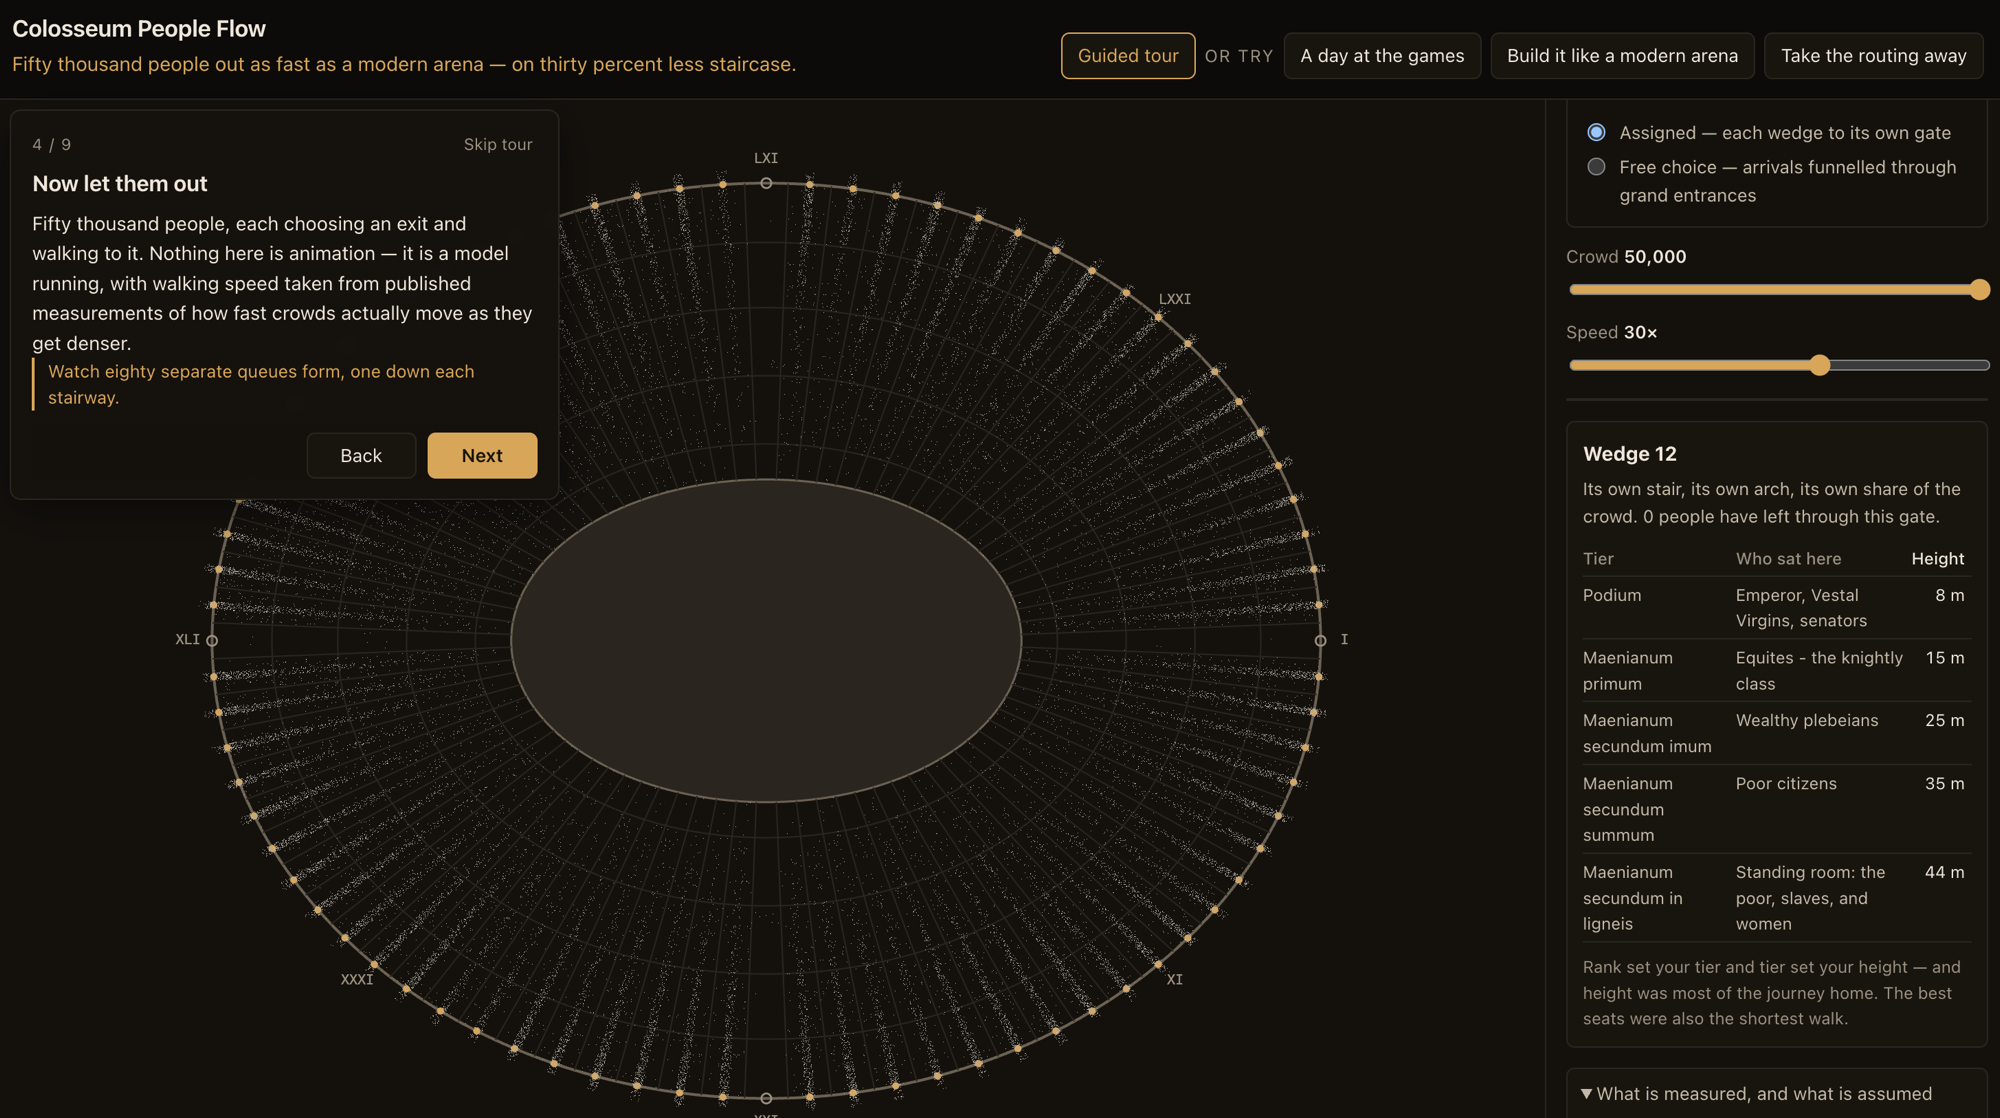
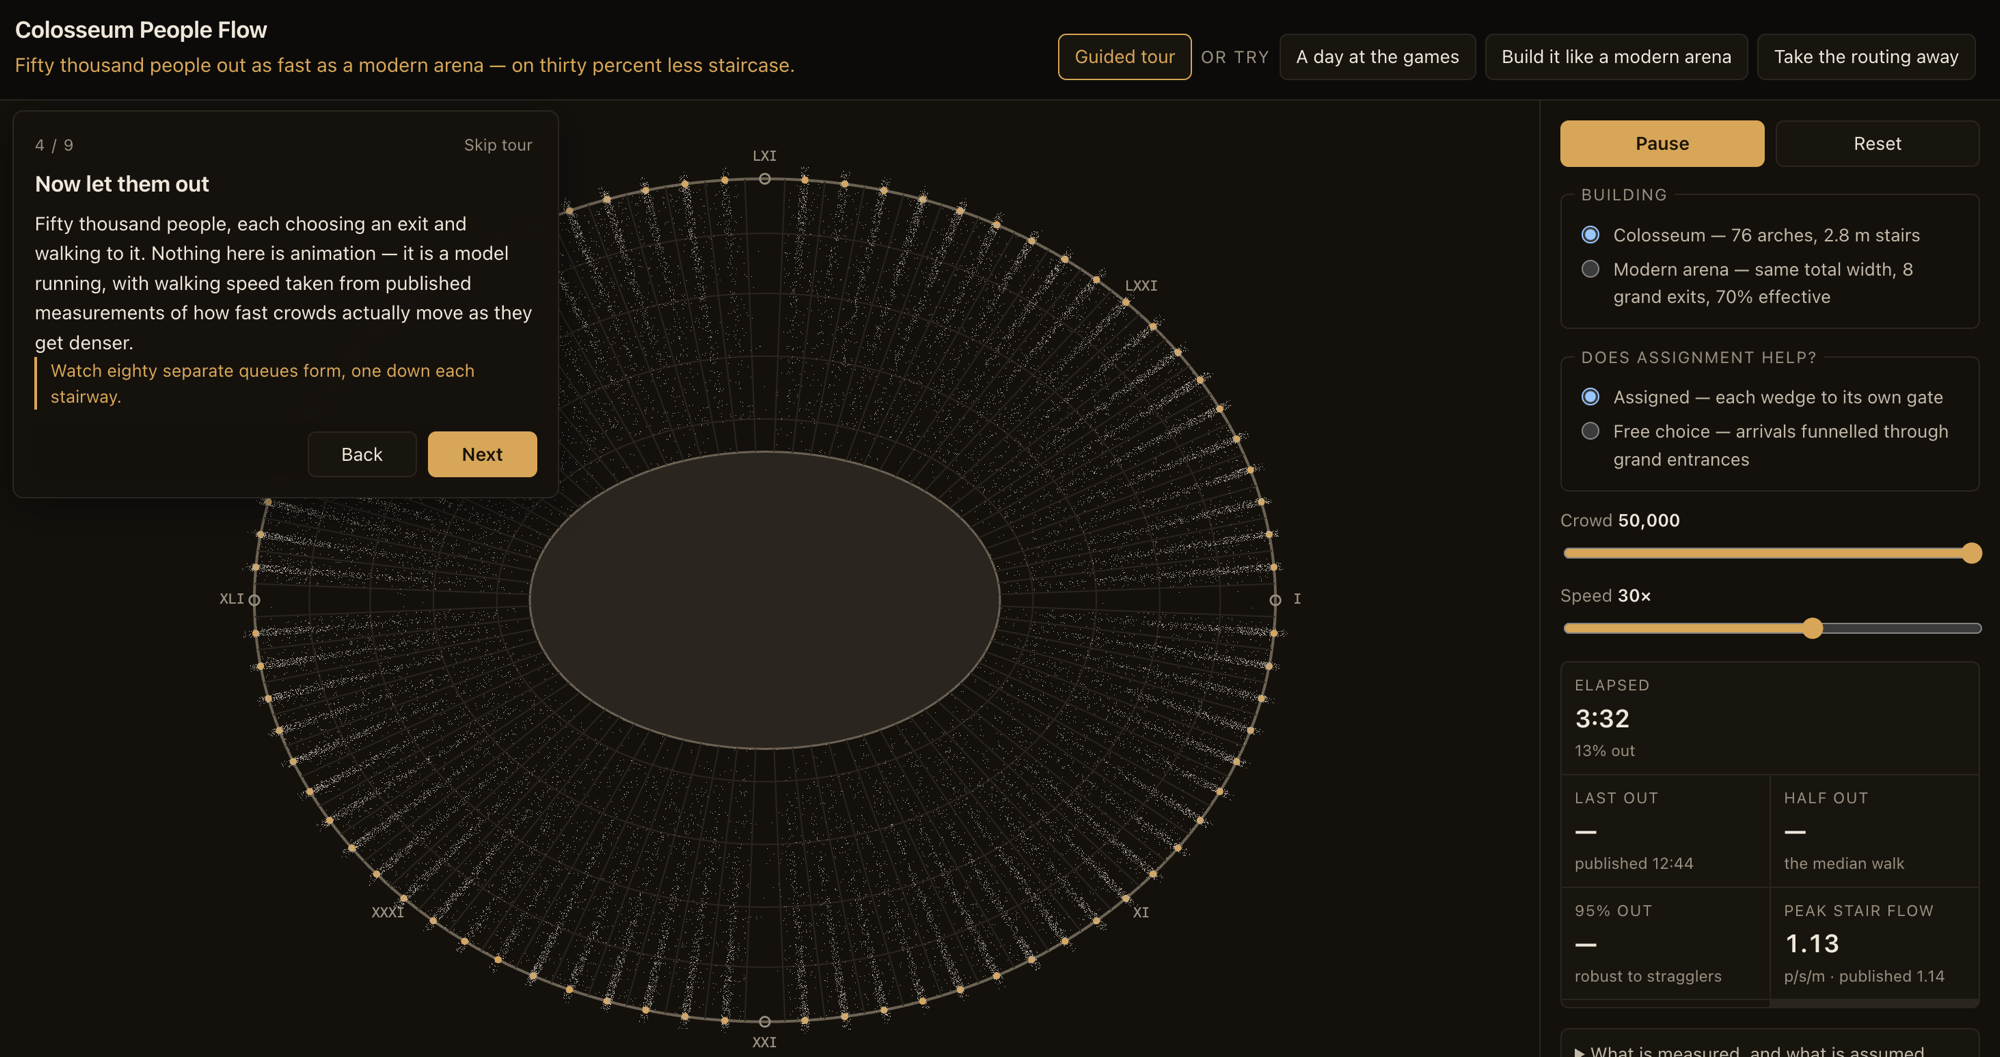
Better screenshot: the model checking itself, in frame
The metrics panel is visible in this one, so the README image now carries the
tool's central move without a caption having to assert it - peak stair flow
1.13 person/s/m beside the published 1.14 the model never sees, with the
eighty queues forming behind it.

diff --git a/README.md b/README.md
@@ -8,7 +8,7 @@ An interactive model of how the Flavian Amphitheatre emptied, and why a building
 
 ![The routed egress partway through: eighty separate queues, one down each stairway](docs/screenshot.png)
 
-*Partway through the egress. Eighty queues, one per wedge, none of them meeting — which is the whole reason the building works.*
+*Three and a half minutes in. Eighty queues, one per wedge, none of them meeting — which is the whole reason the building works. Note the readout on the right: the model's peak stair flow is 1.13 person/s/m against a published 1.14 it never sees.*
 
 ## What you are looking at
 
